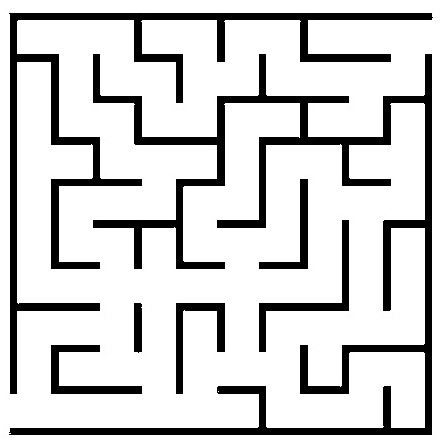
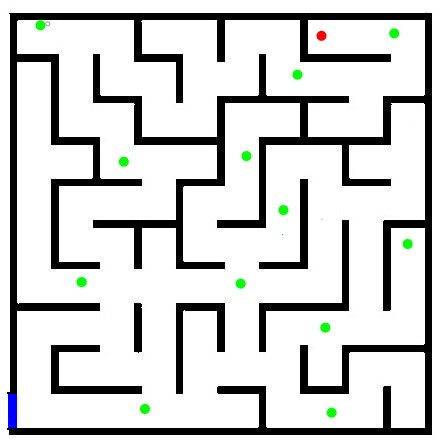
Colisiones medio arregladas, se agregó la función de detectar más colores y se agregó la función de recoger monedas y sumar puntajes

diff --git a/niveles.py b/niveles.py
@@ -1,5 +1,6 @@
 
 import pygame
+from pygame import sprite
 
 from sprites import *
 from config import *
@@ -15,23 +16,49 @@ class level:
         self.set_walls(nivel, wall_type)    # Se llaman surface y wall_type como los argumentos de entrada de set_walls
         self.set_player()
 
+        self.score = 0
         self.world_x_shift = 0
         self.world_y_shift = 0
         
     # Se Itera una lista y se colocan sprites en el mapa según la posicion
     # de los caracteres encontrados
     def set_walls(self, layout, wall_type):
-        im = Image.open(wall_type)
+        self.im = Image.open(wall_type)
         
         self.walls = pygame.sprite.Group()
+        self.items = pygame.sprite.Group()
+        self.door_keys = pygame.sprite.Group()
+        self.lock_doors = pygame.sprite.Group()
         for row_index, row in enumerate(layout):
             for col_index, cell in enumerate(row):
 
-                if cell == "b": # Deteccion de ixeles negros
-                    x = row_index*im.size[0]-((display_info.current_h-150)//2)
-                    y = col_index*im.size[1]-((display_info.current_h-150)//2)
+                if cell == "b": # Deteccion de pixeles negros
+                    x = row_index*self.im.size[0]-(400)
+                    y = col_index*self.im.size[1]-(300)
                     tile = wall((x,y), wall_type)
                     self.walls.add(tile)
+
+                elif cell == "g": # Deteccion de pixeles negros
+                    j = row_index*self.im.size[0]-(400)
+                    k = col_index*self.im.size[1]-(300)
+                    item = items((j, k))
+                    
+                    self.items.add(item)
+
+                elif cell == "r": # Deteccion de pixeles rojos
+                    if len(self.door_keys) < 1: 
+                        j = row_index*self.im.size[0]-(400)
+                        k = col_index*self.im.size[1]-(300)
+                        key = door_key((j, k))
+                        self.door_keys.add(key)
+                    else:
+                        pass
+
+                elif cell == "a": # Deteccion de pixeles negros
+                    j = (row_index)*self.im.size[0]-(400)
+                    k = (col_index)*self.im.size[1]-(300)
+                    door = lock_door((j, k))
+                    self.lock_doors.add(door)
 
                 
         
@@ -39,73 +66,141 @@ class level:
     def set_player(self):
 
 
-        self.player = ply(((800)//2, (600)//2))
+        self.player = ply((400, 300))
         self.player_list = pygame.sprite.Group()
         self.player_list.add(self.player)
-        self.player.speed=0
+        
 
     # Movimiento del mundo y sonido
     def scroll_world(self):
+        if self.world_y_shift > 3 or self.world_x_shift > 3:
+            self.world_x_shift=0
+            self.world_y_shift=0
+        if self.world_y_shift < 3 or self.world_x_shift < 3:
+            self.world_x_shift=0
+            self.world_y_shift=0
 
-        keys = pygame.key.get_pressed()
+        self.keys = pygame.key.get_pressed()
+        
+        
         
         # Controles del jugador van aqui
-        if keys[pygame.K_a]:
-            
-            if pygame.sprite.spritecollide(self.player, self.walls, False):
-                self.world_x_shift =-1
-                    
-            else:
+        if self.keys[pygame.K_a] and not self.keys[pygame.K_d] and not self.keys[pygame.K_w] and not self.keys[pygame.K_s]:
+
+            if self.player.rect.x < 360:
+                self.player.speed =0
                 self.world_x_shift=1
-                if keys[pygame.K_LSHIFT]:
-                    self.world_x_shift +=3
-                    
-                
-        elif keys[pygame.K_d]:
+                if self.keys[pygame.K_LSHIFT]:
+                    self.world_x_shift += 3
+            else:
+                self.player.rect.x -= 1
+                if self.keys[pygame.K_LSHIFT]:
+                    self.player.rect.x -= 3
+            return
+        elif self.keys[pygame.K_d] and not self.keys[pygame.K_a] and not self.keys[pygame.K_w] and not self.keys[pygame.K_s]:
+ 
             
-            if pygame.sprite.spritecollide(self.player, self.walls, False):
-                    self.world_x_shift += 1
-                    
-            else:
+            if self.player.rect.x > 440:
+                self.player.speed =0
                 self.world_x_shift=-1
-                if keys[pygame.K_LSHIFT]:
-                    self.world_x_shift +=-3
-
-
-        elif keys[pygame.K_w]:
-            if pygame.sprite.spritecollide(self.player, self.walls, False):
-                    self.world_y_shift+=-1
-                    
+                if self.keys[pygame.K_LSHIFT]:
+                    self.world_x_shift -= 3
             else:
+                self.player.rect.x += 1
+                if self.keys[pygame.K_LSHIFT]:
+                    self.player.rect.x += 3
+
+            return
+        elif self.keys[pygame.K_w] and not self.keys[pygame.K_d] and not self.keys[pygame.K_a] and not self.keys[pygame.K_s]:
+ 
+            if self.player.rect.y < 260:
+                self.player.speed =0
                 self.world_y_shift=1
-                if keys[pygame.K_LSHIFT]:
-                    self.world_y_shift +=3
-
-
-        elif keys[pygame.K_s]:
-            if pygame.sprite.spritecollide(self.player, self.walls, False):
-                    self.world_y_shift+= 1
-                    
+                if self.keys[pygame.K_LSHIFT]:
+                    self.world_y_shift += 3
             else:
+                self.player.rect.y -= 1
+                if self.keys[pygame.K_LSHIFT]:
+                    self.player.rect.y -= 3
+
+            return
+        elif self.keys[pygame.K_s] and not self.keys[pygame.K_d] and not self.keys[pygame.K_w] and not self.keys[pygame.K_a]:
+  
+            if self.player.rect.y > 340:
+                self.player.speed =0
                 self.world_y_shift=-1
-                if keys[pygame.K_LSHIFT]:
-                    self.world_y_shift +=-3
-
-        
-        
-        
-
+                if self.keys[pygame.K_LSHIFT]:
+                    self.world_y_shift -= 3
+            else:
+                self.player.rect.y += 1
+                if self.keys[pygame.K_LSHIFT]:
+                    self.player.rect.y += 3
+            return
         else:
             self.world_x_shift=0
             self.world_y_shift=0
+            return
+
+        
+    def colisiones(self):
+        for i in self.items:
+            i.speed = 0
+        for k in self.door_keys:
+            k.speed = 0
+        for d in self.lock_doors:
+            d.speed = 0
+
+        for wall in self.walls:
+            if wall.rect.colliderect(self.player):
+                
+                if self.keys[pygame.K_a]:
+                    self.player.speed =0
+                    self.world_x_shift -=10
+                    
+
+                if self.keys[pygame.K_d]:
+                    self.player.speed =0
+                    self.world_x_shift +=10
+                    
+
+                if self.keys[pygame.K_w]:
+                    self.player.speed =0
+                    self.world_y_shift -=10
+                    
+
+                if self.keys[pygame.K_s]:
+                    self.player.speed =0
+                    self.world_y_shift +=10
+    
+    def puntaje(self):
+
+        
+        for i in self.items:
+            
+            if i.rect.colliderect(self.player):
+                self.items.remove(i)
+                self.score += 100
+        return self.score
+
+
+        
         
     # Activacion de todas las funciones de esta clase
     def run(self):
         
         self.walls.update(self.world_x_shift, self.world_y_shift)
         self.walls.draw(self.diplay_surface)
+        self.items.update(self.world_x_shift, self.world_y_shift)
+        self.items.draw(self.diplay_surface)
+        self.lock_doors.update(self.world_x_shift, self.world_y_shift)
+        self.lock_doors.draw(self.diplay_surface)
+        self.door_keys.update(self.world_x_shift, self.world_y_shift)
+        self.door_keys.draw(self.diplay_surface)
         self.player_list.draw(self.diplay_surface)
         self.scroll_world()
+        self.colisiones()
+        self.puntaje()
+        
 
 
 

diff --git a/sprites.py b/sprites.py
@@ -20,6 +20,54 @@ class ply(pygame.sprite.Sprite):
         self.image = pygame.Surface((20,20))
         self.image.fill('white')
         self.rect = self.image.get_rect(topleft = pos)
+
+    # def direccion_sprite(self):
+
+        # player_de
+        # player_iz
+        # player_up
+        # plaer_down
+
+        # keys = pygame.key.get_pressed()
+
+        # if keys == pygame.K_a:
+
+class items(pygame.sprite.Sprite):
+    def __init__(self, pos):
+        super().__init__()
+        self.image = pygame.image.load("sprites\coin.png").convert()
+        self.image.set_colorkey((0, 0, 0))
+        self.rect = self.image.get_rect(topleft = pos)
+
+    def update(self, x_shif, y_shift):
+
+        self.rect.x += x_shif
+        self.rect.y += y_shift
+
+
+class lock_door(pygame.sprite.Sprite):
+    def __init__(self, pos):
+        super().__init__()
+        self.image = pygame.image.load("sprites\lock_door.png").convert()
+        self.image.set_colorkey((0, 0, 0))
+        self.rect = self.image.get_rect(topleft = pos)
+
+    def update(self, x_shif, y_shift):
+
+        self.rect.x += x_shif
+        self.rect.y += y_shift
         
+
+class door_key(pygame.sprite.Sprite):
+    def __init__(self, pos):
+        super().__init__()
+        self.image = pygame.image.load("sprites\key.png").convert()
+        self.image.set_colorkey((0, 0, 0))
+        self.rect = self.image.get_rect(topleft = pos)
+    
+    def update(self, x_shif, y_shift):
+
+        self.rect.x += x_shif
+        self.rect.y += y_shift
 
 

diff --git a/main.py b/main.py
@@ -4,8 +4,9 @@ from pygame.constants import FULLSCREEN
 from config import *
 from niveles import level
 
-pygame.init()
 
+pygame.init()
+pygame.font.init()
 # Detecta la informacion de la pantalla
 display_info = pygame.display.Info()
 screen_width = display_info.current_w
@@ -21,6 +22,8 @@ level_1 = level(level_map_1, screen, "sprites\wall_1_front.png")
 level_2 = level(level_map_2, screen, "sprites\wall_2_front.png")
 level_3 = level(level_map_3, screen, "sprites\wall_3_front.png")
 
+
+
 #Bucle principal del juego
 while True:
     for event in pygame.event.get():
@@ -29,16 +32,18 @@ while True:
             if event.key == pygame.K_ESCAPE:
                 pygame.quit()
                 sys.exit()
-                
 
-            
         if event.type == pygame.QUIT:
             sys.exit()
-            
-                
-    
-    screen.fill('grey')
+
+    screen.fill('grey') 
     level_2.run()
-   
+    print(level_2.puntaje())
+
+
+
+
+
+    clock.tick(8192)
     pygame.display.flip()
     

diff --git a/Mapas_pruebas.py b/Mapas_pruebas.py
@@ -30,10 +30,19 @@ def mapeo(image):
             if pix[row, column][0] in range(x) and pix[row, column][1] in range(x) and pix[row, column][2] in range(x):
                 
                 a.append("b")
+
+            elif pix[row, column][0] in range(x) and pix[row, column][1] in range(255-x,255,1) and pix[row, column][2] in range(x):
+                a.append("g")
+
+            elif pix[row, column][0] in range(255-x,255,1) and pix[row, column][1] in range(x) and pix[row, column][2] in range(x):
+                a.append("r")
+
+            elif pix[row, column][0] in range(x) and pix[row, column][1] in range(x) and pix[row, column][2] in range(255-x,255,1):
+                a.append("a")
             else:
                 a.append(" ")
             
-        
+    
             
         b = "".join(a) # Definicion de str ue contiene 1 fila de pixeles de la imagen
         mapa.append(b) 

diff --git a/config.py b/config.py
@@ -11,4 +11,3 @@ level_map_3 = mapeo('laberinto3.jpg')
 
 
 
-
